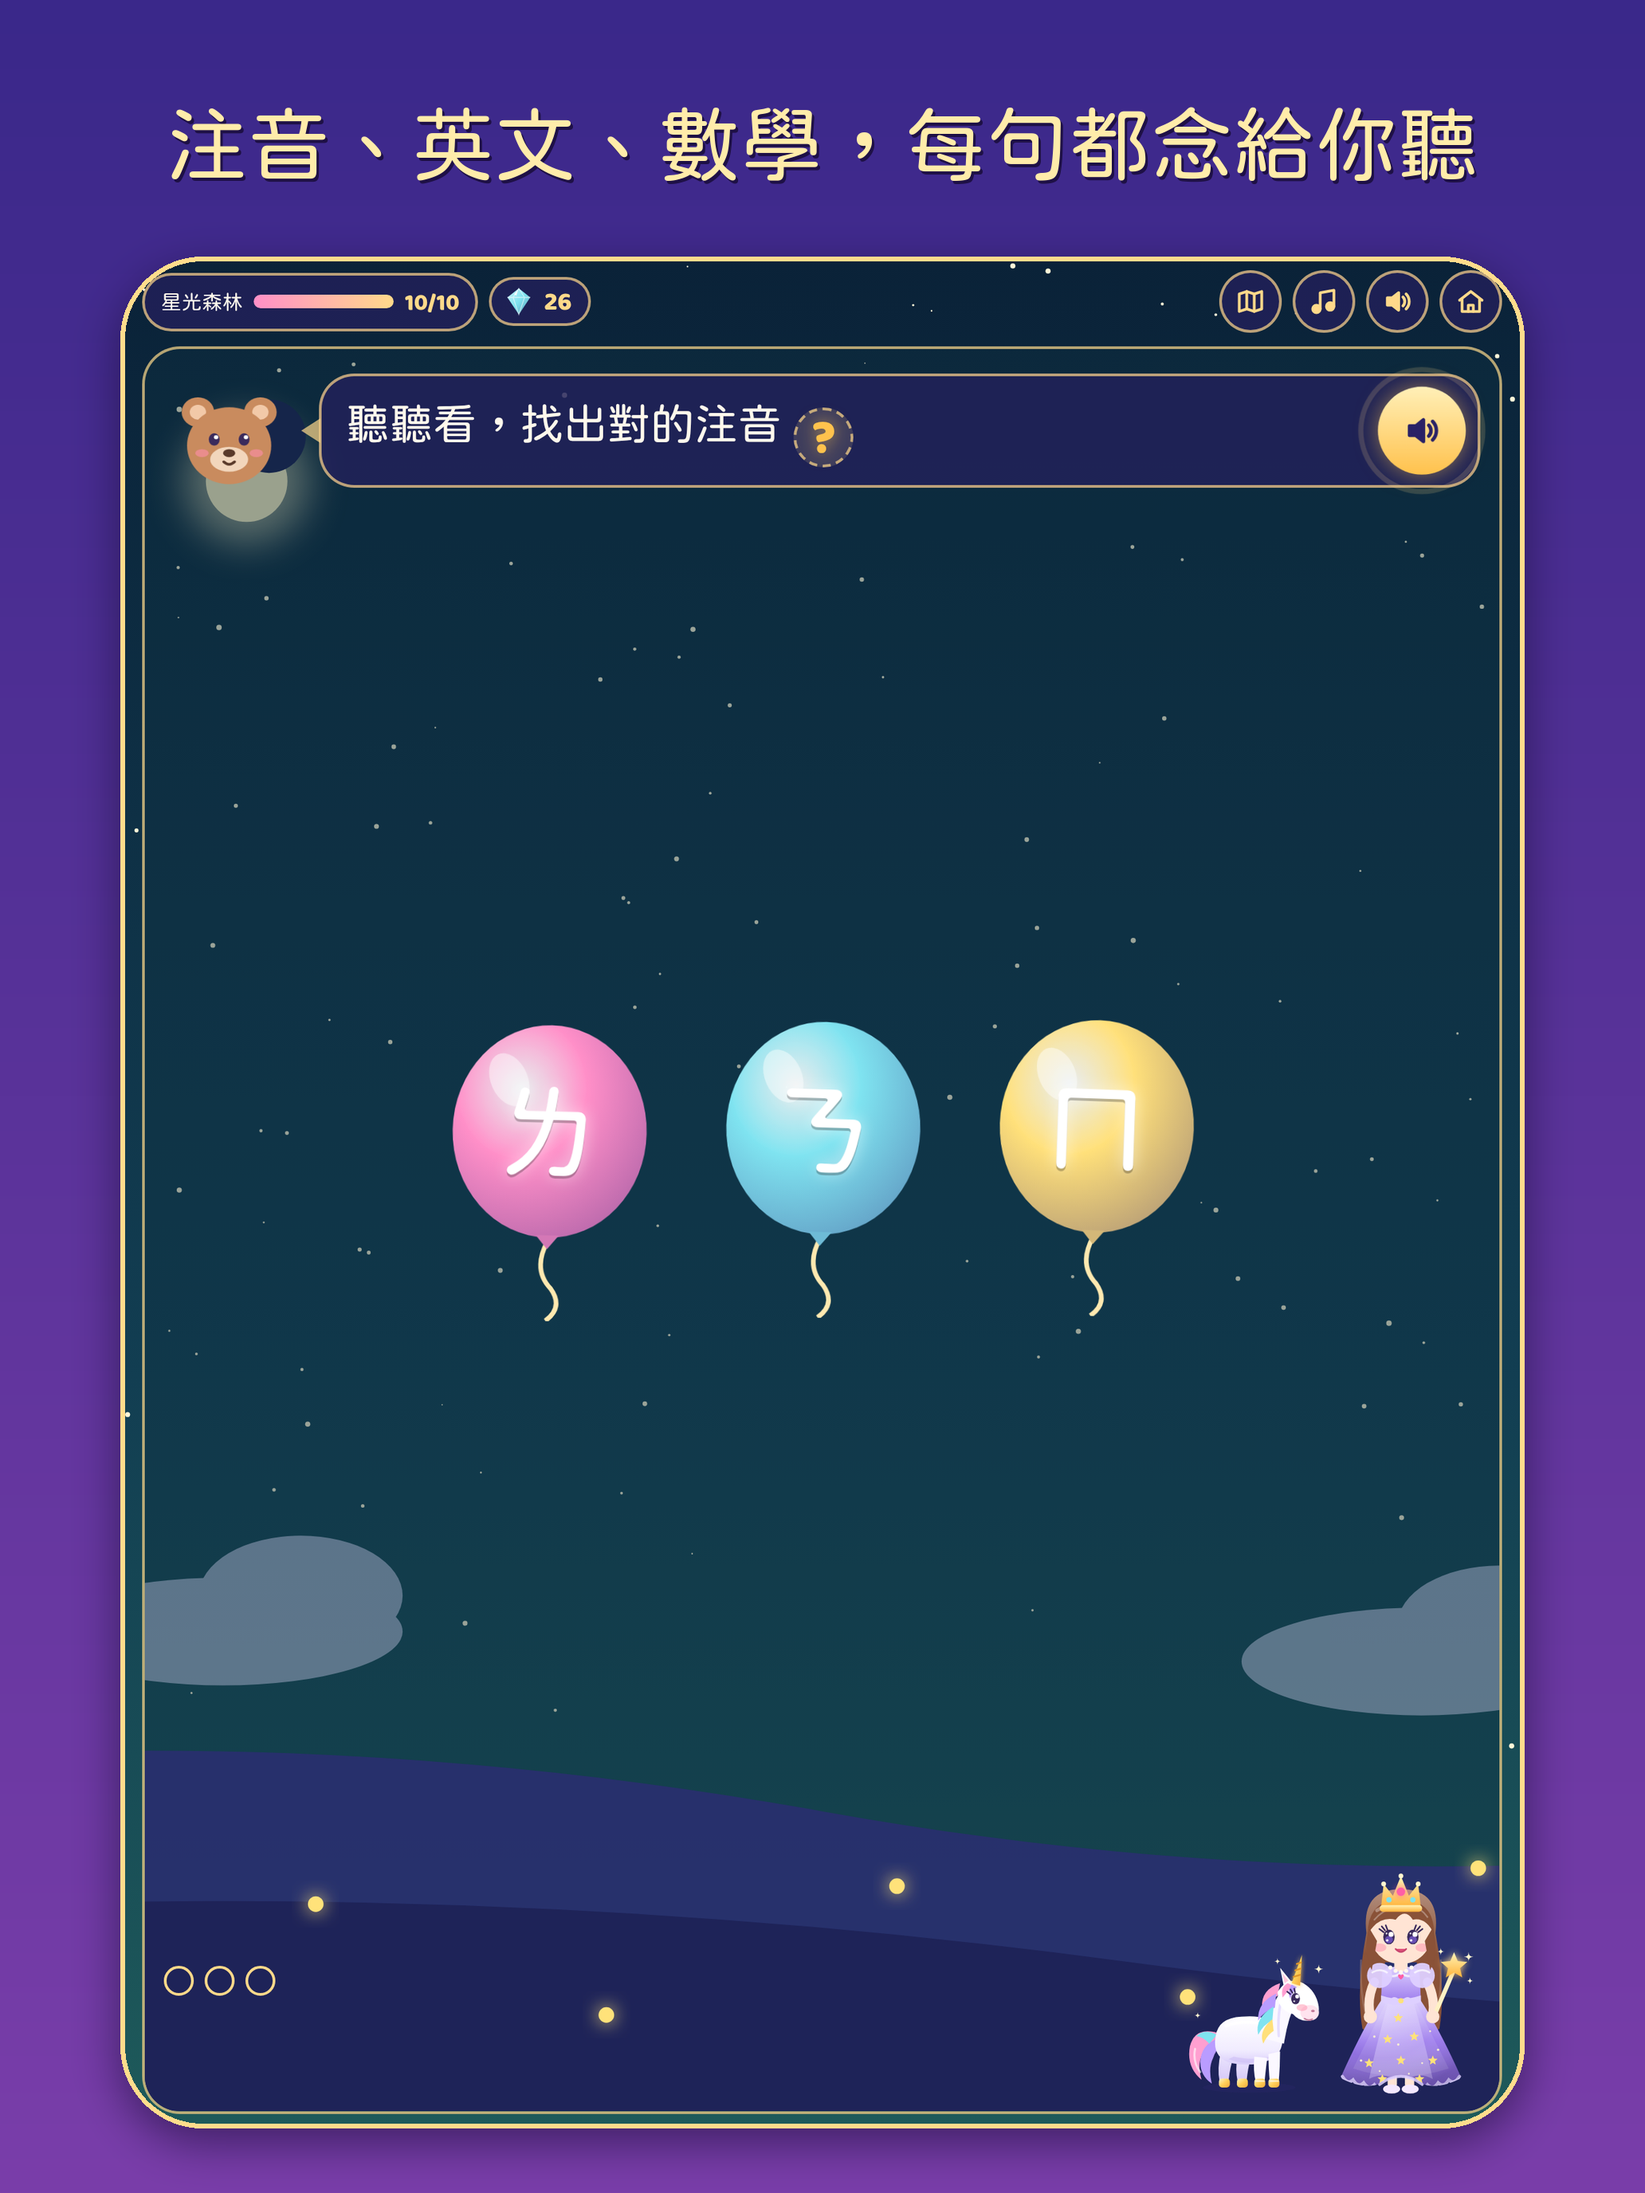
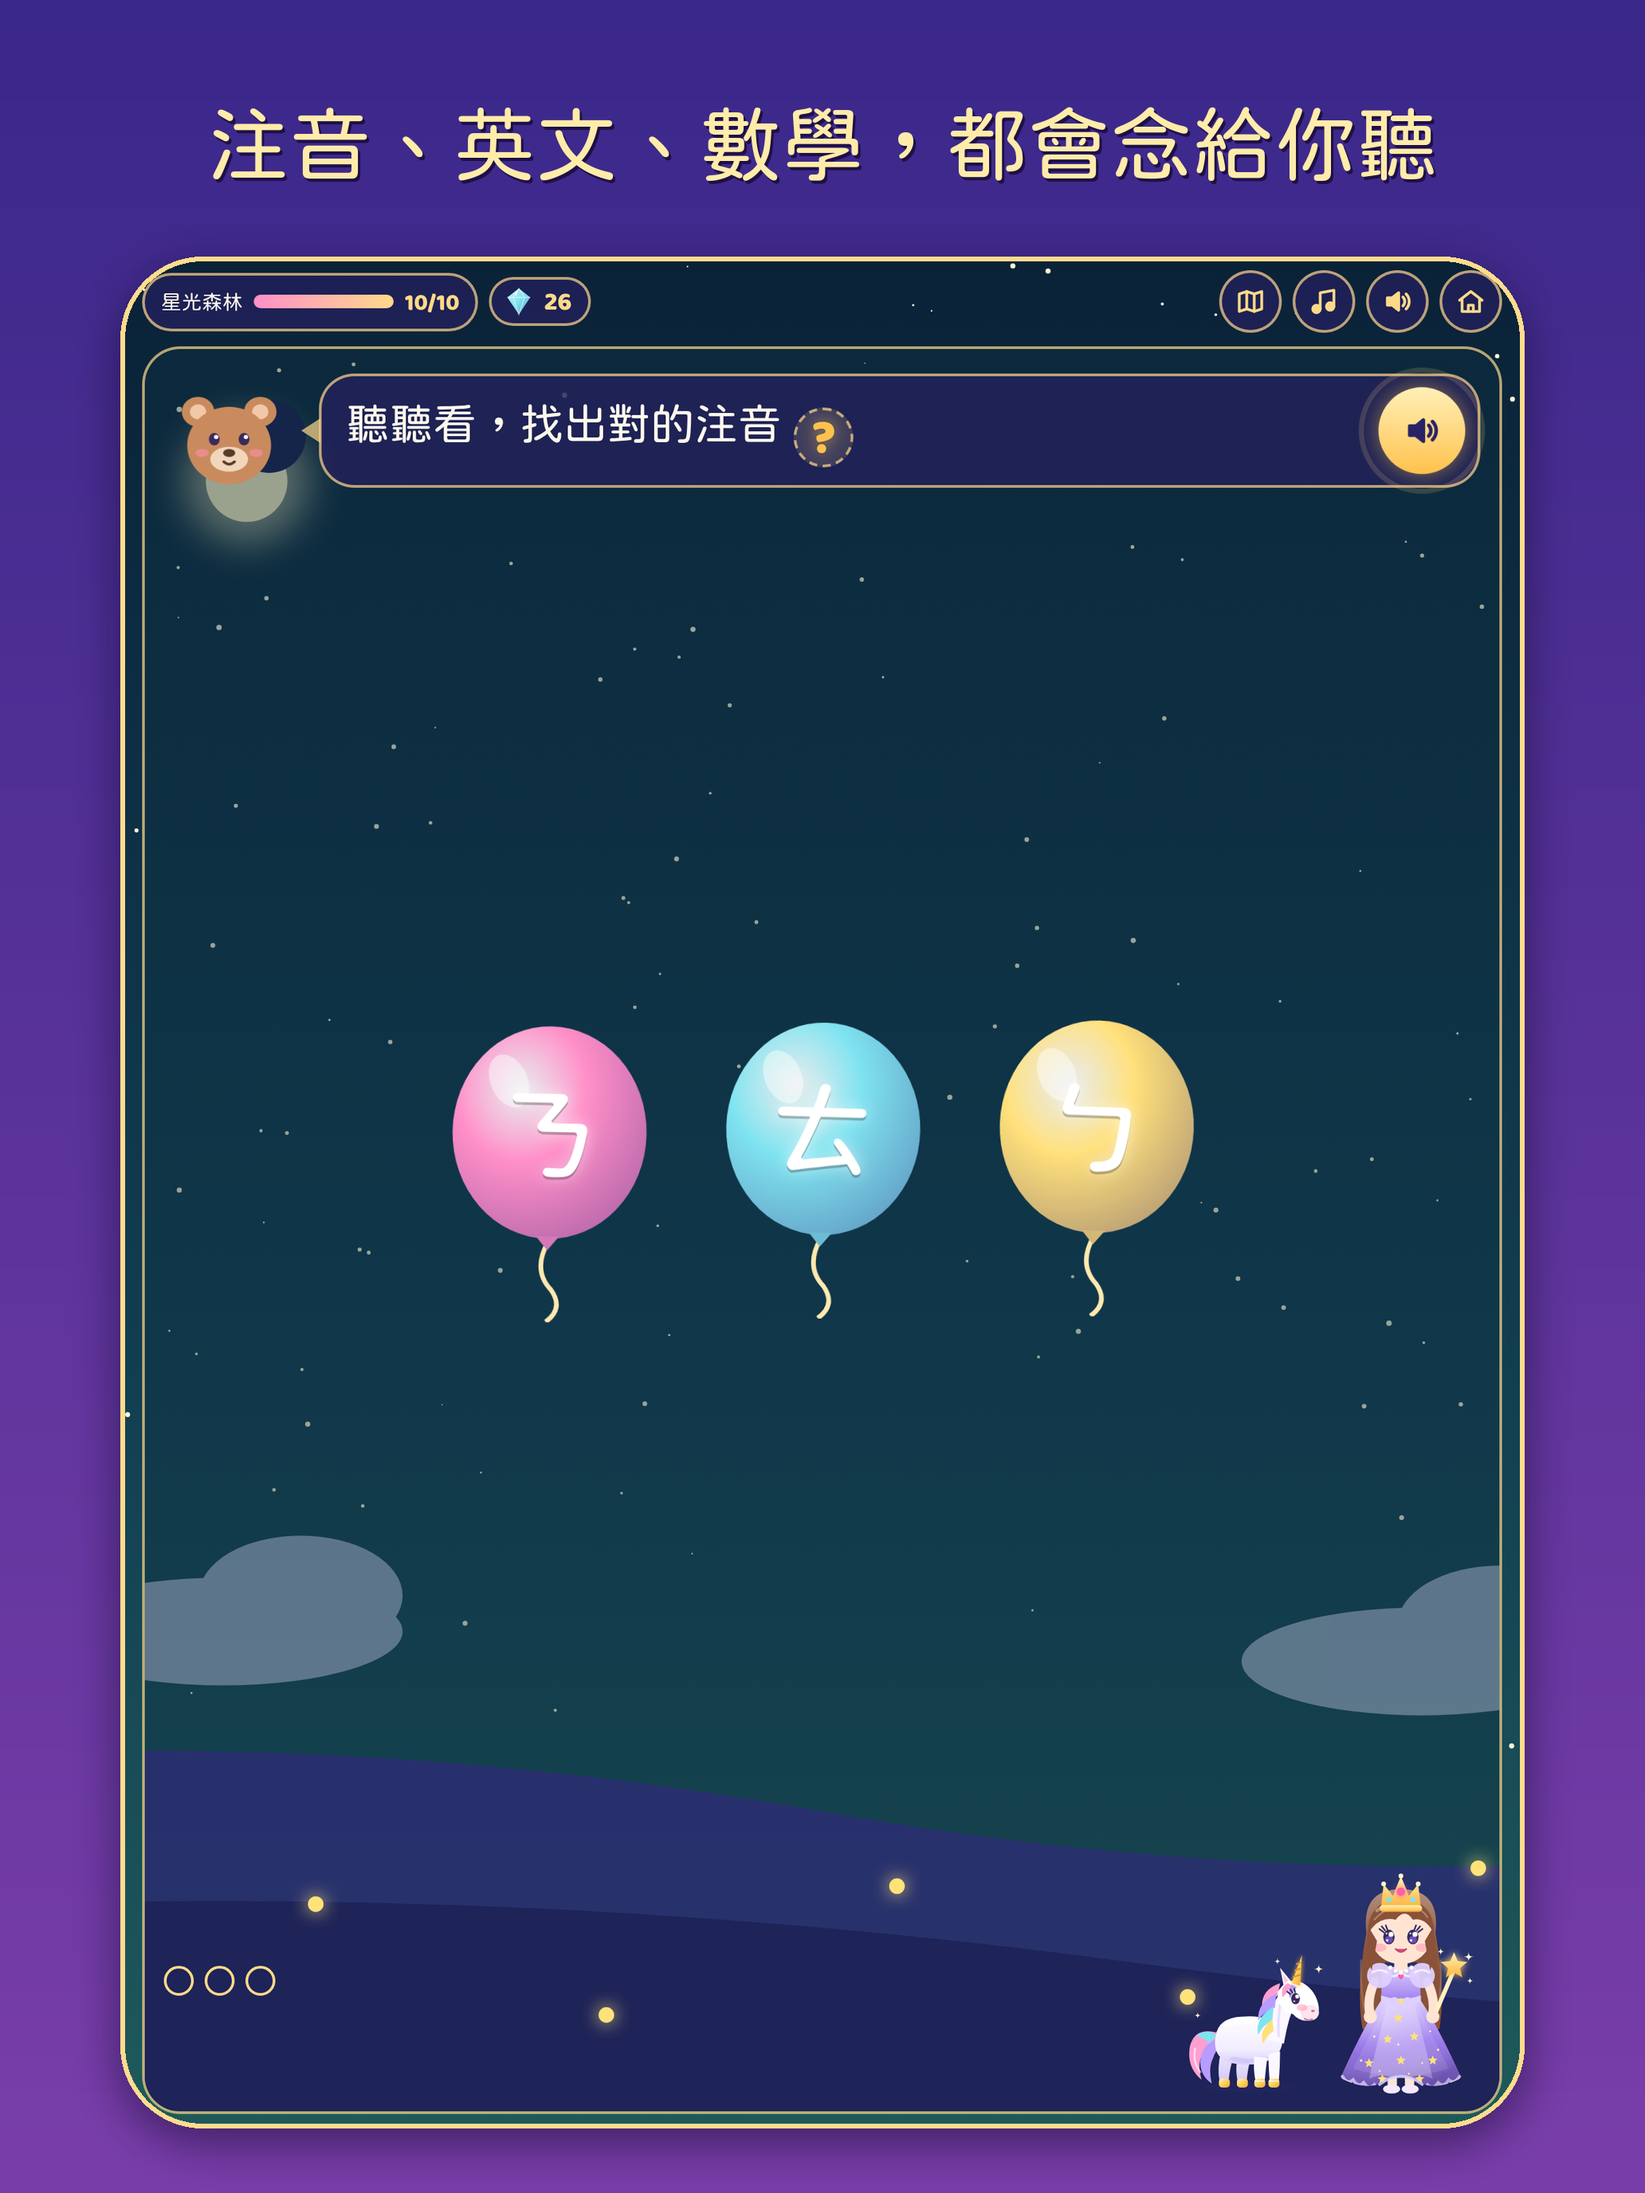
v3.6.6：App 隱私清單（PrivacyInfo）；備份也用原生分享；首頁「關於」不顯示內部版號；語音準備好才說話；錄完按鈕文字；上架文字和截圖用詞修正
Claude-Session: https://claude.ai/code/session_01323vahwBoEBw3PomYoYBvj

diff --git a/index.html b/index.html
@@ -6359,7 +6359,7 @@ BUILD.read=function(play,sp){
   const auto=setTimeout(()=>stopper&&stopper(),4000);
   stopper=()=>{clearTimeout(auto);stopper=null;try{rec.state!=='inactive'&&rec.stop()}catch(e){}};
   await done;cancelAnimationFrame(raf);stopTracks();restore();
-  mb.classList.remove('on');
+  mb.classList.remove('on');label('聽聽看…');
   if(!alive()){busy=false;return}
   const blob=new Blob(chunks,{type:(chunks[0]&&chunks[0].type)||rec.mimeType||'audio/mp4'});
   if(peak<.02||!blob.size){busy=false;label('再錄一次');tip.textContent='沒有聽到聲音喔，再唸一次，或是按「我唸好了」。';say(['沒有聽到聲音喔，再唸一次，或是按「我唸好了」。']);return}
@@ -8310,15 +8310,26 @@ if(IS_APP){try{
   const sel=$('#pch',ov);if(sel){[...sel.options].forEach(o=>{if(+o.value>=APP_CH)o.remove()});if(S.ch>=APP_CH)sel.value=String(APP_CH-1)}
   const ua=$('#unlockall',ov);if(ua){const f=ua.onclick;ua.onclick=function(){const before=new Set(S.owned||[]);const r2=f&&f.apply(this,arguments);try{S.owned=(S.owned||[]).filter(id=>{const it=ITEMS.find(x=>x.id===id);return before.has(id)||!(it&&it.chapter&&it.chapter>APP_CH)});save()}catch(e){}return r2}}}catch(e){}return r};
  // 畫冊「存到相簿」會打開分享選單（可以傳出 App）：先問家長
- if(typeof shareFile==='function'){const _shOrig=shareFile;shareFile=function(blob,name,title){if(!(blob&&/^image\//.test(blob.type)))return _shOrig.apply(this,arguments);return new Promise(res=>{let done=0;const fin=v=>{if(!done){done=1;clearInterval(iv);res(v)}};
+ if(typeof shareFile==='function'){const _shOrig=shareFile;
+  const cap=window.Capacitor,plug=n=>cap&&((cap.Plugins&&cap.Plugins[n])||(cap.registerPlugin&&cap.registerPlugin(n)));
+  // App 裡用原生外掛：存成暫存檔 → 打開分享選單
+  const nativeShare=async(blob,name,title,dlg)=>{const FS=plug('Filesystem'),SH=plug('Share');if(!FS||!SH)return null;
+   const b64=await new Promise((ok,no)=>{const r=new FileReader();r.onload=()=>ok(String(r.result).split(',')[1]);r.onerror=no;r.readAsDataURL(blob)});
+   const ext=/png/.test(blob.type)?'png':/jpe?g/.test(blob.type)?'jpg':/json/.test(blob.type)?'json':'txt';
+   const fn=/^image\//.test(blob.type)?`starlight-${Date.now()}.${ext}`:`starlight-backup-${new Date().toISOString().slice(0,10)}.${ext}`;
+   let w;try{w=await FS.writeFile({path:fn,data:b64,directory:'CACHE'})}catch(e){toast('存不起來，手機空間可能不夠');return 'cancel'}
+   try{await SH.share({title,files:[w.uri],dialogTitle:dlg||title});return 'shared'}catch(e){return 'cancel'}};
+  shareFile=function(blob,name,title){if(!(blob&&/^image\//.test(blob.type)))return (async()=>{try{const r=await nativeShare(blob,name,title);if(r)return r}catch(e){}return _shOrig(blob,name,title)})();return new Promise(res=>{let done=0;const fin=v=>{if(!done){done=1;clearInterval(iv);res(v)}};
   let passed=0;parentGate(async()=>{passed=1;try{
    // App 裡：先存成暫存檔，再打開 iPhone 的分享選單（裡面有「儲存影像」）
-   const cap=window.Capacitor,plug=n=>cap&&((cap.Plugins&&cap.Plugins[n])||(cap.registerPlugin&&cap.registerPlugin(n)));const FS=plug('Filesystem'),SH=plug('Share');
-   if(FS&&SH){const b64=await new Promise((ok,no)=>{const r=new FileReader();r.onload=()=>ok(String(r.result).split(',')[1]);r.onerror=no;r.readAsDataURL(blob)});
-    const ext=(/png/.test(blob.type)?'png':'jpg');const w=await FS.writeFile({path:`starlight-${Date.now()}.${ext}`,data:b64,directory:'CACHE'});
-    try{await SH.share({title,files:[w.uri],dialogTitle:'存到相簿'});fin('shared')}catch(e){fin('cancel')}return}
+   const r=await nativeShare(blob,name,title,'存到相簿');if(r){fin(r);return}
    const f=new File([blob],name,{type:blob.type});if(navigator.canShare&&navigator.canShare({files:[f]})){await navigator.share({files:[f],title});fin('shared')}else{toast('這台裝置沒辦法直接存，可以用截圖保存喔');fin('cancel')}}catch(e){console.log('save',e);fin('cancel')}});
   let seen=0;const iv=setInterval(()=>{if($('#pg'))seen=1;else if(seen&&!passed)fin('cancel')},400)})}}
+
+ // 首頁「關於」不顯示內部版本號（App Store 上是 1.0）
+ const _tAbout=SCREENS.title;SCREENS.title=function(){const r=_tAbout.apply(this,arguments);try{const a=$('#about');if(a)a.textContent='關於'}catch(e){}return r};
+ // 語音還沒準備好時先等一下（最多 3 秒），不要先用機器聲
+ const _sayRdy=say;say=function(parts,opt){try{if(!VO.idx&&VO.ready&&S.vo){const self=this;return Promise.race([VO.ready,wait(3000)]).then(()=>_sayRdy.call(self,parts,opt))}}catch(e){}return _sayRdy.call(this,parts,opt)};
 }catch(e){console.log('applock',e)}}
 
 // 每次打開自動檢查新版本
